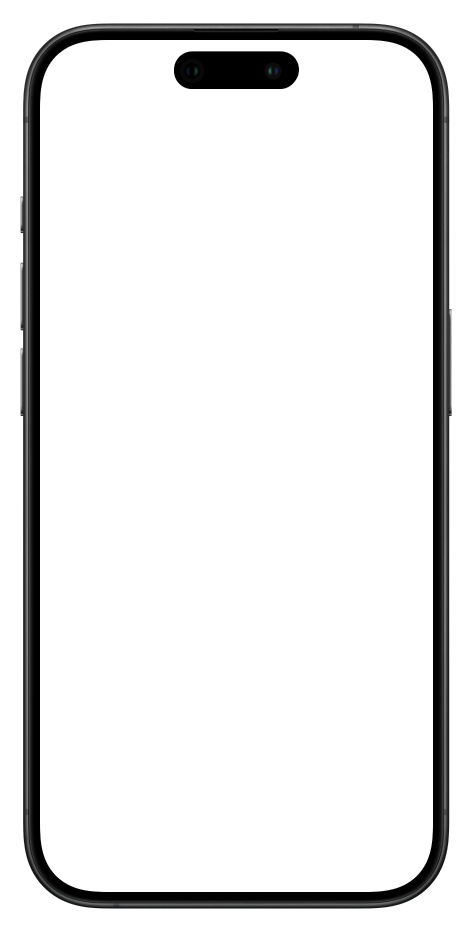
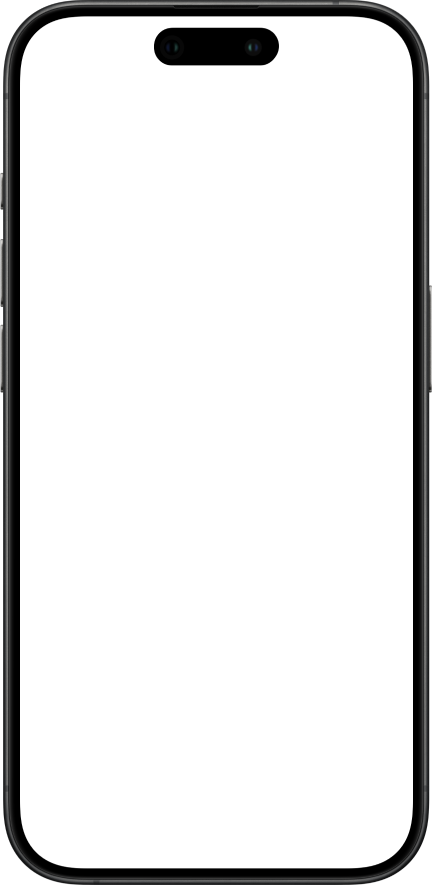
feat : 화면 목업 추가

Changed region(s): [[0.0, 0.0, 1.0, 1.0]]

diff --git a/src/layout/Layout.jsx b/src/layout/Layout.jsx
@@ -1,0 +1,58 @@
+import styled from "styled-components";
+import font from "styles/font";
+import color from "styles/color";
+import iPhoneMockup from 'assets/global/iPhone15_Pro.png';
+
+
+function Layout({ children }) {
+	return (
+	  <Container>
+		<Main>
+		  <Mockup src={iPhoneMockup} />
+		  <Screen>{children}</Screen>
+		</Main>
+	  </Container>
+	);
+  }  
+
+export default Layout;
+
+const Container = styled.div`
+	height: 100vh;
+
+	display: flex;
+	justify-content: center;
+	align-items: center;
+	gap: 120px;
+
+	background-color: ${color.white};
+`;
+
+const Main = styled.main`
+	margin: 0;
+	padding: 0;
+	position: relative;
+	height: 883px;
+	width: 437px;
+	display: flex;
+	justify-content: center;
+`;
+
+const Mockup = styled.img`
+	height: 932px;
+	width: 473px;
+	position: absolute;
+	z-index: 1;
+	-webkit-user-select: none;
+	-moz-user-select: none;
+	-ms-user-select: none;
+	user-select: none;
+`;
+
+const Screen = styled.div`
+	width: 393px;
+	height: 777px;
+	position: absolute;
+	z-index: 2;
+	bottom: 36px;
+`;

diff --git a/src/layout/Screen/Screen.jsx b/src/layout/Screen/Screen.jsx
@@ -1,0 +1,19 @@
+import React from "react";
+import styled from "styled-components";
+import iPhone15ProInner from "assets/global/iPhone15_Pro_Inner.png";
+
+function Screen({ children, bgcolor }) {
+	return <Container bgcolor={bgcolor}>{children}</Container>;
+};
+
+export default Screen;
+
+const Container = styled.div`
+	width: 100%;
+	height: 100%;
+	background-color: ${(props) => props.bgcolor};
+	position: relative;
+	border-radius: 49px;
+	padding: 47px 0 0;
+	background-image: url(${iPhone15ProInner});
+`;

diff --git a/src/App.jsx b/src/App.jsx
@@ -1,0 +1,16 @@
+import About from "pages/about";
+import Home from "pages/home";
+import { BrowserRouter, Route, Routes } from "react-router-dom";
+
+function App() {
+  return (
+      <BrowserRouter>
+        <Routes>
+          <Route path="/" element={<Home />} />
+          <Route path="/about" element={<About />} />
+        </Routes>
+      </BrowserRouter>
+  );
+}
+
+export default App;

diff --git a/src/pages/about.jsx b/src/pages/about.jsx
@@ -1,0 +1,13 @@
+import React from 'react';
+import Layout from 'layout/Layout';
+
+function About() {
+  return (
+    <Layout>
+      <h1>About Page</h1>
+      <p>This is the about page.</p>
+    </Layout>
+  );
+};
+
+export default About;

diff --git a/src/pages/home.jsx b/src/pages/home.jsx
@@ -1,0 +1,13 @@
+import React from 'react';
+import Layout from "layout/Layout";
+
+function Home() {
+  return (
+    <Layout>
+      <h1>Home Page</h1>
+      <p>Welcome to the home page!</p>
+    </Layout>
+  );
+}
+
+export default Home;
